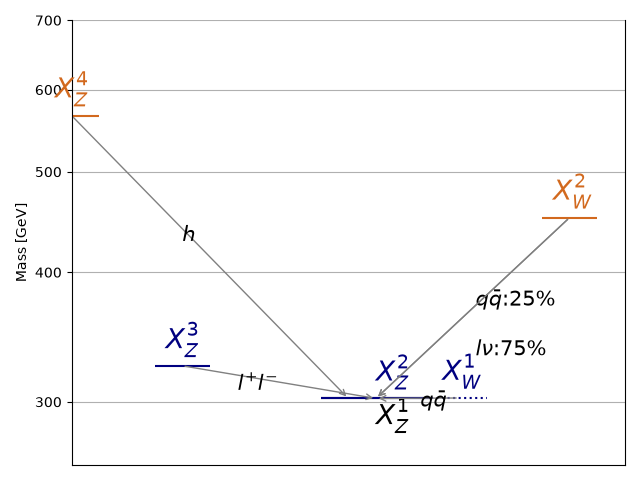
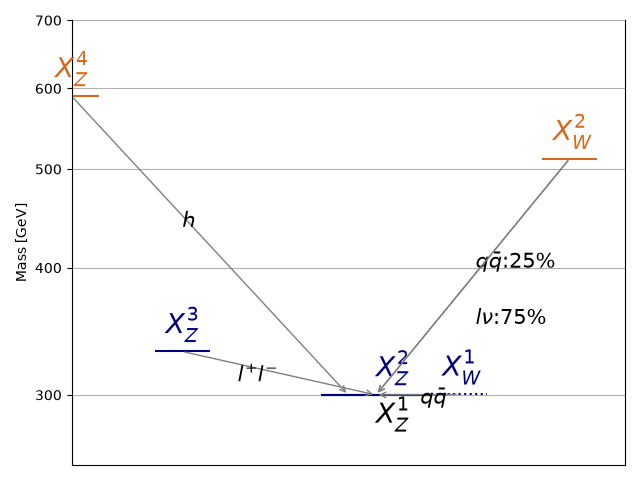
automated update by plotHiscore.py to rundir5_320:     K=0.214 TL=12.32 walkerid=515

diff --git a/protomodels/rundir5_320/index.html b/protomodels/rundir5_320/index.html
@@ -1,27 +1,27 @@
 <html>
 <body>
 <center>
-<table><td><h1>Current best protomodel: <i>K</i>=0.11, <i>TL</i>=12.21</h1><td><img height=60px src=https://smodels.github.io//protomodels/logos/protomodel_lego.png></table>
+<table><td><h1>Current best protomodel: <i>K</i>=0.21, <i>TL</i>=12.32</h1><td><img height=60px src=https://smodels.github.io//protomodels/logos/protomodel_lego.png></table>
 </center>
-<b><a href=./hiscore.slha>ProtoModel</a> <a href=./pmodel.dict>(dict)</a> produced with <a href=https://smodels.github.io//docs/Validation320>database v3.2.0</a>, allowed_extr 0.05 in walker 514 step 49.</b> <br>
+<b><a href=./hiscore.slha>ProtoModel</a> <a href=./pmodel.dict>(dict)</a> produced with <a href=https://smodels.github.io//docs/Validation320>database v3.2.0</a>, allowed_extr 0.05 in walker 515 step 96.</b> <br>
 <table width=80%>
 <tr><td>
 <br><b>Critics:</b> passed both critics<br>
 <br><b>UL Critic: 1/1 analyses exclude</b><br>
-ATLAS-EXOT-2018-06:EM12:: <span style='color: darkred;'>r<sub>obs</sub>=1.782, r<sub>exp</sub>=1.487</span><br>
-ATLAS-SUSY-2018-19:SR_EW:: <span style='color: darkgreen;'>r<sub>obs</sub>=0.522, r<sub>exp</sub>=0.508</span><br>
-CMS-EXO-20-004:SR_2018_22:: <span style='color: darkgreen;'>r<sub>obs</sub>=0.251, r<sub>exp</sub>=0.403</span><br>
-<br><b>LLHD Critic:</b> ATLAS-EXOT-2018-06:EM12, CMS-EXO-20-004:matrix.cov, CMS-EXO-19-010:SR_nlay5, ATLAS-SUSY-2016-06:SR_EW:: <span style='color: darkred;'>r<sub>obs</sub>=1.16, r<sub>exp</sub>=1.92</span><br>
+ATLAS-EXOT-2018-06:EM12:: <span style='color: darkred;'>r<sub>obs</sub>=1.795, r<sub>exp</sub>=1.497</span><br>
+ATLAS-SUSY-2018-19:SR_EW:: <span style='color: darkgreen;'>r<sub>obs</sub>=0.532, r<sub>exp</sub>=0.518</span><br>
+CMS-EXO-20-004:SR_2018_22:: <span style='color: darkgreen;'>r<sub>obs</sub>=0.251, r<sub>exp</sub>=0.404</span><br>
+<br><b>LLHD Critic:</b> ATLAS-EXOT-2018-06:EM12, CMS-EXO-20-004:matrix.cov, CMS-EXO-19-010:SR_nlay5, ATLAS-SUSY-2016-06:SR_EW:: <span style='color: darkred;'>r<sub>obs</sub>=1.16, r<sub>exp</sub>=1.93</span><br>
 </ul>
-<td><img width=600px src=./texdoc.png?1792321765>
-<br><span style='font-size: smaller; color: darkred;'>Last updated: Sun Oct 18 13:09:25 2026</span>
+<td><img width=600px src=./texdoc.png?1792346311>
+<br><span style='font-size: smaller; color: darkred;'>Last updated: Sun Oct 18 19:58:31 2026</span>
 <br><br><b>6 predictions available. Highest r values are:</b><br><ul>
-<li><a href=https://atlas.web.cern.ch/Atlas/GROUPS/PHYSICS/PAPERS/EXOT-2018-06/>ATLAS-EXOT-2018-06</a>:EM12:TChiISR r=1.78, r<sub>exp</sub>=1.49<br>
-<li><a href=https://atlas.web.cern.ch/Atlas/GROUPS/PHYSICS/PAPERS/SUSY-2018-19/>ATLAS-SUSY-2018-19</a>:SR_EW:TDTM2F r=0.52, r<sub>exp</sub>=0.51<br>
+<li><a href=https://atlas.web.cern.ch/Atlas/GROUPS/PHYSICS/PAPERS/EXOT-2018-06/>ATLAS-EXOT-2018-06</a>:EM12:TChiISR r=1.79, r<sub>exp</sub>=1.50<br>
+<li><a href=https://atlas.web.cern.ch/Atlas/GROUPS/PHYSICS/PAPERS/SUSY-2018-19/>ATLAS-SUSY-2018-19</a>:SR_EW:TDTM2F r=0.53, r<sub>exp</sub>=0.52<br>
 <li><a href=http://cms-results.web.cern.ch/cms-results/public-results/publications/EXO-20-004/>CMS-EXO-20-004</a>:SR_2018_22:TChiISR r=0.25, r<sub>exp</sub>=0.40<br>
 <li><a href=https://atlas.web.cern.ch/Atlas/GROUPS/PHYSICS/PAPERS/SUSY-2016-06/>ATLAS-SUSY-2016-06</a>:SR_EW:TDTM2F r=0.15, r<sub>exp</sub>=0.12<br>
 </table><table style="width:80%">
-<td width=40%><img height=450px src=./mass_hierarchy.png?1792321765><td width=60%><font size=-3><iframe type="text/html" height="350px" width="100%" frameborder="0" src="./rawnumbers.html?1792321765"></iframe></font>
+<td width=40%><img height=450px src=./mass_hierarchy.png?1792346311><td width=60%><font size=-3><iframe type="text/html" height="350px" width="100%" frameborder="0" src="./rawnumbers.html?1792346311"></iframe></font>
 </table>
 </body>
 </html>
